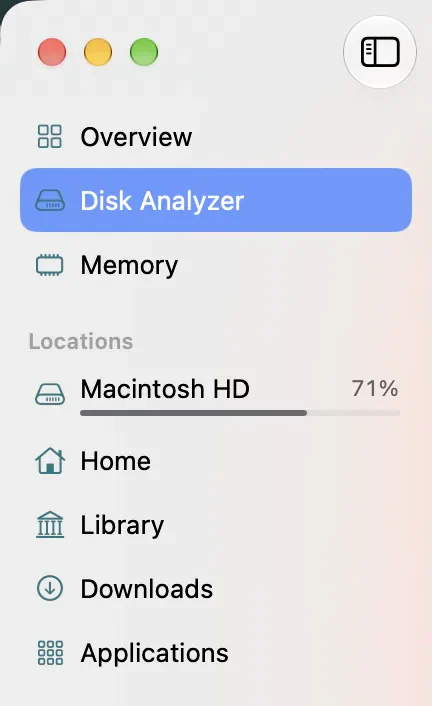
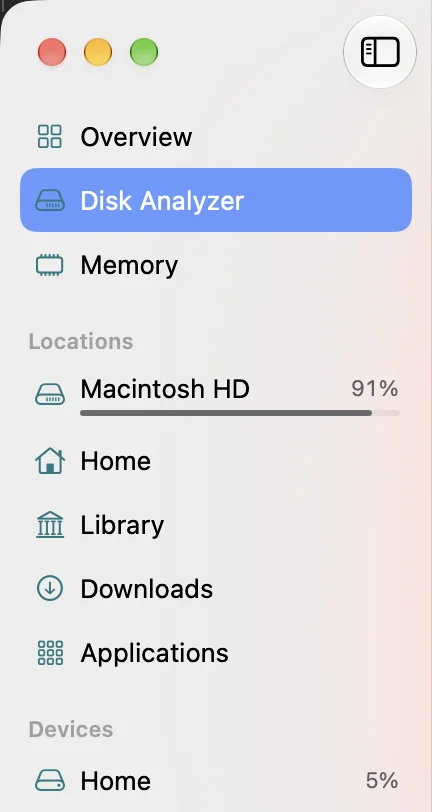
Guide: add Icicle, Type colours, Devices and Trash alert screenshots
Four more real demo-disk screenshots, taken from shots that already existed.
Rewords the Type colours line about folder colours and adds the Scan Depth
tip to the Large Files note.

diff --git a/guide.html b/guide.html
@@ -110,6 +110,7 @@
   .shot img{display:block;width:100%;height:auto;border-radius:12px;box-shadow:0 0 0 .5px rgba(0,0,0,.16),0 2px 6px rgba(0,0,0,.06),0 20px 44px -14px rgba(28,32,48,.24)}
   .shot figcaption{max-width:680px;margin-top:16px;font-size:15px;line-height:1.5;color:var(--ink2)}
   .shot-wide{margin-right:-72px}
+  .shot-small{max-width:324px}
   .detail img{border-radius:10px;box-shadow:none;border:1px solid rgba(0,0,0,.12)}
   .strip .scroll{overflow-x:auto;-webkit-overflow-scrolling:touch;border:1px solid rgba(0,0,0,.12);border-radius:10px;background:#fff}
   .strip img{min-width:600px;border:0;border-radius:0}
@@ -289,6 +290,14 @@
         <p><strong>Treemap</strong> packs everything into rectangles. A large folder becomes a frame with its name and size along the top and its own contents drawn inside, so you see two levels at once. It is the best view for spotting what is big.</p>
         <p><strong>Icicle</strong> stacks the same folders in rows. The top row is the folder you opened, and each row beneath holds the contents of the row above. A bar&rsquo;s width is its size. It is the better view for comparing things that sit at the same level.</p>
 
+        <figure class="shot detail strip">
+          <div class="scroll" tabindex="0" role="group" aria-label="Icicle view screenshot, scrolls sideways on small screens">
+            <img src="/img/guide/icicle.webp" width="1622" height="456" loading="lazy" decoding="async"
+                 alt="Klarity&rsquo;s Icicle view of a Home folder: one bar for Home at 293.9 GB across the top, a second row with Movies, Pictures, Library, Parallels and Downloads, and shorter rows beneath for what each of those holds">
+          </div>
+          <figcaption>Icicle view. Home runs across the top, the folders inside it sit in the row below, and wider means bigger.</figcaption>
+        </figure>
+
         <h3>Getting around</h3>
         <dl class="rows">
           <dt>Click a block</dt>
@@ -376,7 +385,15 @@
         </figure>
 
         <h3>Type colours</h3>
-        <p>Switch <strong>Age</strong> to <strong>Type</strong> in the toolbar and the map colours files by kind instead: images, video, audio, documents, code, archives, apps and so on. The key under the map changes to match. Folders get colours of their own, which are only there to tell neighbours apart.</p>
+        <p>Switch <strong>Age</strong> to <strong>Type</strong> in the toolbar and the map colours files by kind instead: images, video, audio, documents, code, archives, apps and so on. The key under the map changes to match. Folders get a colour of their own. It carries no meaning, and two folders can land on similar shades.</p>
+
+        <figure class="shot shot-wide">
+          <a href="/img/guide/type-colours.webp">
+          <img src="/img/guide/type-colours.webp" width="2648" height="1952" loading="lazy" decoding="async"
+               alt="Klarity&rsquo;s treemap of a Home folder in Type colours: Movies in red, Pictures in indigo, Library, Parallels and Downloads in green, Documents in teal and Music in tan, with the key under the map reading Folders">
+          </a>
+          <figcaption>The same Home folder in Type colours. At this level every block is a folder, and the key under the map reads Folders.</figcaption>
+        </figure>
       </section>
 
       <section id="sidebar">
@@ -399,8 +416,9 @@
             <dd>External drives that are plugged in. Each one asks for access the first time you scan it.</dd>
           </dl>
           <figure class="shot detail">
-            <img src="/img/guide/sidebar.webp" width="432" height="706" loading="lazy" decoding="async"
-                 alt="Klarity&rsquo;s sidebar: Overview, Disk Analyzer and Memory at the top, then Locations with Macintosh HD at 71 percent, Home, Library, Downloads and Applications">
+            <img src="/img/guide/sidebar.webp" width="432" height="812" loading="lazy" decoding="async"
+                 alt="Klarity&rsquo;s sidebar: Overview, Disk Analyzer and Memory at the top, then Locations with Macintosh HD at 91 percent, Home, Library, Downloads and Applications, then Devices with one drive at 5 percent">
+            <figcaption>The drive under Devices here happens to be named Home.</figcaption>
           </figure>
         </div>
 
@@ -428,7 +446,7 @@
         </ul>
 
         <div class="note">
-          <p><strong>Open the folder first.</strong> Large Files only lists files in folders the scan has opened, and on a very big scan it is a shortlist that can miss some. For a thorough look, double-click into the folder you care about, then click Large files.</p>
+          <p><strong>Open the folder first.</strong> Large Files only lists files in folders the scan has opened, and on a very big scan it is a shortlist that can miss some. For a thorough look, double-click into the folder you care about, then click Large files. Raising Scan Depth in Settings &rsaquo; General widens the net too, though the scan takes longer.</p>
         </div>
       </section>
 
@@ -437,6 +455,12 @@
         <p class="lead">Klarity only ever moves things to the Trash. It never deletes anything outright and it never empties the Trash, so you can change your mind until you empty it yourself.</p>
 
         <p>To remove something, right-click it and choose <strong>Move to Trash</strong>, or select it and use <strong>Move to Trash&hellip;</strong> in the inspector. Klarity asks you to confirm every time.</p>
+
+        <figure class="shot detail shot-small">
+          <img src="/img/guide/trash-alert.webp" width="648" height="494" loading="lazy" decoding="async"
+               alt="Klarity asking Move to Trash? for a 5.46 GB video file, saying it will be moved to the Trash and can be restored from the Trash if needed, with Move to Trash and Cancel buttons">
+          <figcaption>The usual question, here for a single file.</figcaption>
+        </figure>
 
         <figure class="shot shot-wide">
           <a href="/img/1.3.1/trash.webp">
